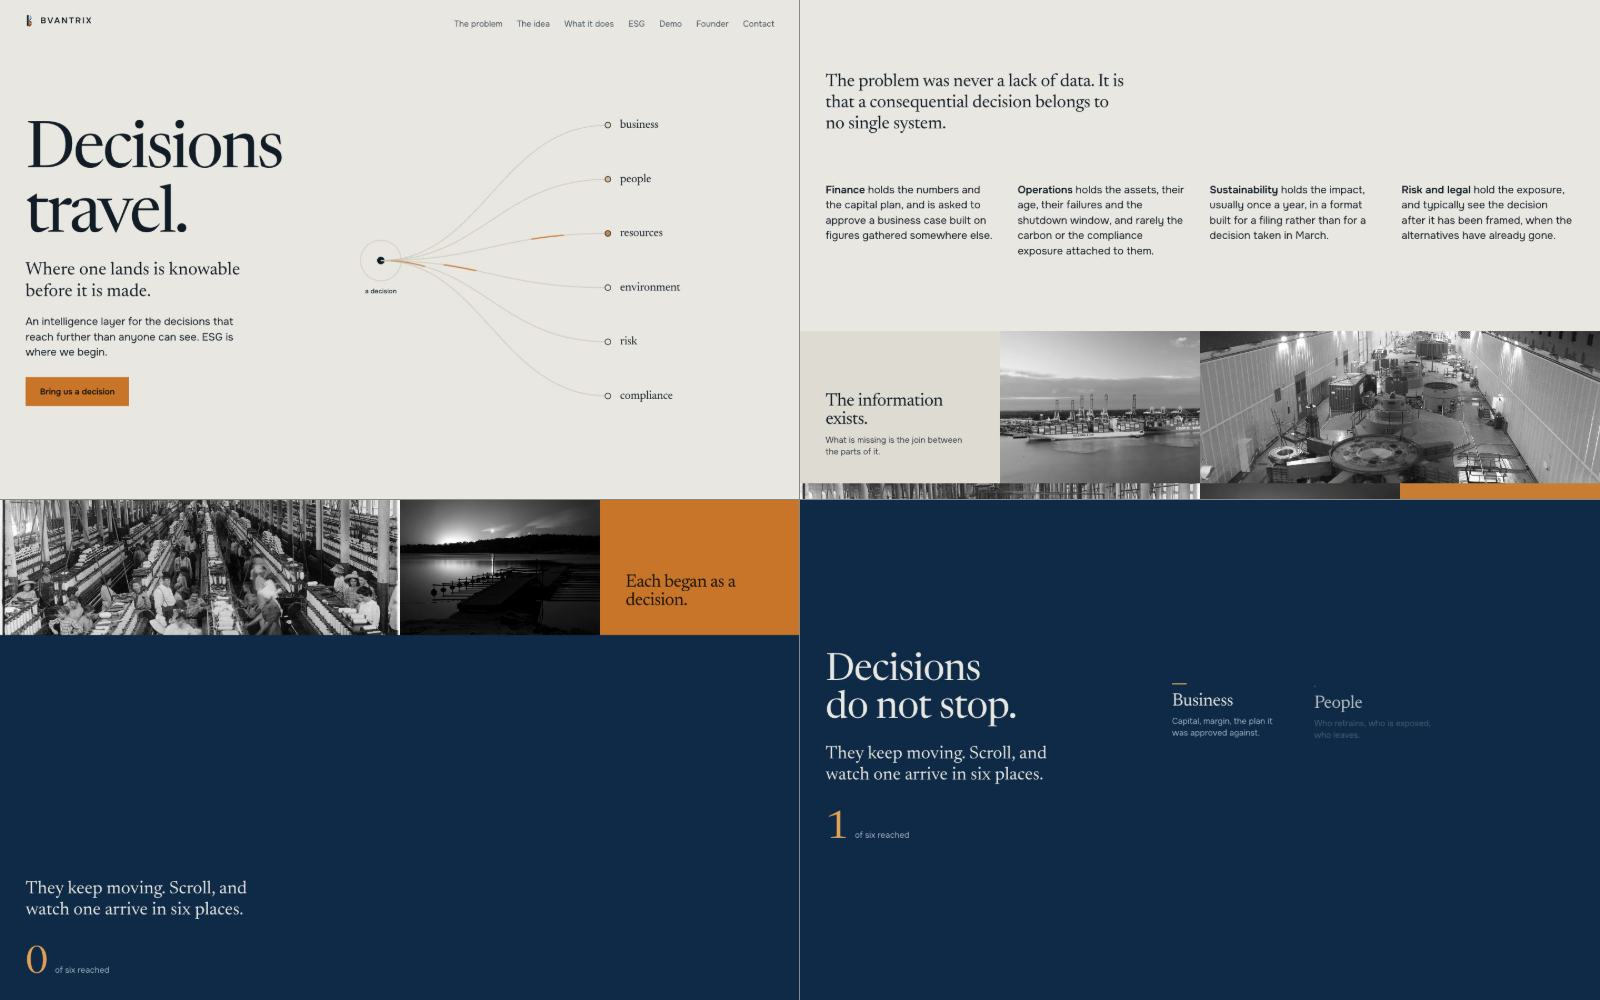
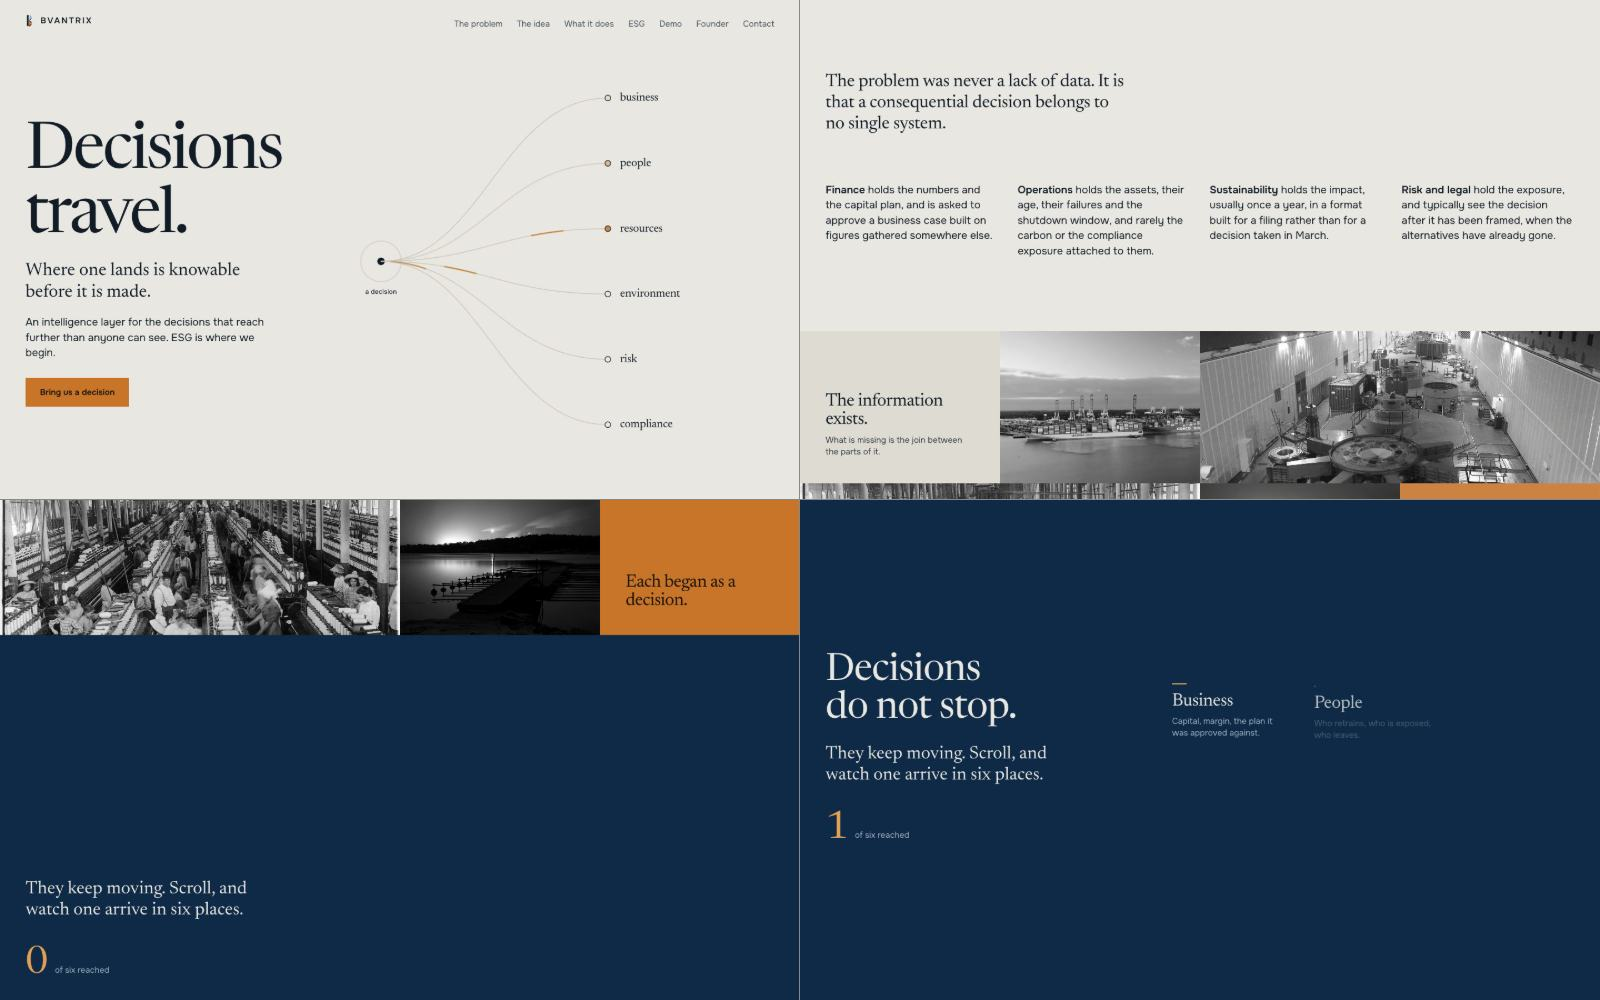
Close the hero's empty bands and make them equal
41% of the fold was empty page, and the band above the content sat 54px
deeper than the one below it. Three causes, three fixes.

The bands were measured from the viewport edge, but the nav occupies
the first 56px, so the gap a reader actually sees starts lower. The
top padding now carries that clearance on top of a band both sides
share, which makes the two gaps come out equal at any height.

The body text was capped at 26ch and stopped 130px short of the
headline's own width, leaving a ragged column of nothing beside it.
At 36ch the standfirst now runs to exactly the headline's measure.

The diagram's six lanes sat 116 units apart, which made it wide and
short, so it could never fill the column it was given. At 140 apart it
stands 623px instead of 529px.

Measured: optical bands 114/112 at 1440x900, 63/62 at 1366x680, 48/48
at 1280x640. Content fills 69-74% of the fold, up from 59%. Nothing
clipped, nothing below the fold, no horizontal scroll at 375px.

diff --git a/index.html b/index.html
@@ -25,7 +25,7 @@
 <link rel="preconnect" href="https://fonts.gstatic.com" crossorigin>
 <link rel="stylesheet" href="https://fonts.googleapis.com/css2?family=Newsreader:opsz,wght@6..72,300;6..72,400;6..72,500&family=Onest:wght@400;500;600&display=swap">
 <link rel="stylesheet" href="assets/scenes/stage.css">
-<link rel="stylesheet" href="css/style.css?v=10.3">
+<link rel="stylesheet" href="css/style.css?v=10.5">
 </head>
 <body>
 
@@ -94,67 +94,68 @@
   </div>
 
   <figure class="flowfig" aria-label="A decision reaching six places">
-    <svg viewBox="57 40 890 636" role="list">
+    <svg viewBox="57 24 890 750" role="list">
       <!-- the decision, where every line begins -->
       <g class="source">
-        <circle class="source-ring" cx="104" cy="348" r="42"/>
-        <circle class="source-dot" cx="104" cy="348" r="8"/>
-        <text class="source-label" x="104" y="418">a decision</text>
+        <circle class="source-ring" cx="104" cy="390" r="42"/>
+        <circle class="source-dot" cx="104" cy="390" r="8"/>
+        <text class="source-label" x="104" y="460">a decision</text>
       </g>
 
       <g class="lane" style="--i:0" tabindex="0" role="listitem"
          aria-label="business: capital, margin, the plan it was approved against">
-        <path class="lane-wire" d="M104 348 C 320 348, 360 58, 590 58"/>
-        <path class="lane-pulse" d="M104 348 C 320 348, 360 58, 590 58" pathLength="100"/>
-        <circle class="lane-dot" cx="590" cy="58" r="6"/>
-        <text class="lane-name" x="616" y="64">business</text>
-        <text class="lane-note" x="616" y="86">capital, margin, the plan it was approved against</text>
+        <path class="lane-wire" d="M104 390 C 320 390, 360 40, 590 40"/>
+        <path class="lane-pulse" d="M104 390 C 320 390, 360 40, 590 40" pathLength="100"/>
+        <circle class="lane-dot" cx="590" cy="40" r="6"/>
+        <text class="lane-name" x="616" y="46">business</text>
+        <text class="lane-note" x="616" y="68">capital, margin, the plan it was approved against</text>
       </g>
 
       <g class="lane" style="--i:1" tabindex="0" role="listitem"
          aria-label="people: who retrains, who is exposed, who leaves">
-        <path class="lane-wire" d="M104 348 C 320 348, 360 174, 590 174"/>
-        <path class="lane-pulse" d="M104 348 C 320 348, 360 174, 590 174" pathLength="100"/>
-        <circle class="lane-dot" cx="590" cy="174" r="6"/>
-        <text class="lane-name" x="616" y="180">people</text>
-        <text class="lane-note" x="616" y="202">who retrains, who is exposed, who leaves</text>
+        <path class="lane-wire" d="M104 390 C 320 390, 360 180, 590 180"/>
+        <path class="lane-pulse" d="M104 390 C 320 390, 360 180, 590 180" pathLength="100"/>
+        <circle class="lane-dot" cx="590" cy="180" r="6"/>
+        <text class="lane-name" x="616" y="186">people</text>
+        <text class="lane-note" x="616" y="208">who retrains, who is exposed, who leaves</text>
       </g>
 
       <g class="lane" style="--i:2" tabindex="0" role="listitem"
          aria-label="resources: what is consumed, recovered, or thrown">
-        <path class="lane-wire" d="M104 348 C 320 348, 360 290, 590 290"/>
-        <path class="lane-pulse" d="M104 348 C 320 348, 360 290, 590 290" pathLength="100"/>
-        <circle class="lane-dot" cx="590" cy="290" r="6"/>
-        <text class="lane-name" x="616" y="296">resources</text>
-        <text class="lane-note" x="616" y="318">what is consumed, recovered, or thrown</text>
+        <path class="lane-wire" d="M104 390 C 320 390, 360 320, 590 320"/>
+        <path class="lane-pulse" d="M104 390 C 320 390, 360 320, 590 320" pathLength="100"/>
+        <circle class="lane-dot" cx="590" cy="320" r="6"/>
+        <text class="lane-name" x="616" y="326">resources</text>
+        <text class="lane-note" x="616" y="348">what is consumed, recovered, or thrown</text>
       </g>
 
       <g class="lane" style="--i:3" tabindex="0" role="listitem"
          aria-label="environment: emissions in operation, and those already embodied">
-        <path class="lane-wire" d="M104 348 C 320 348, 360 406, 590 406"/>
-        <path class="lane-pulse" d="M104 348 C 320 348, 360 406, 590 406" pathLength="100"/>
-        <circle class="lane-dot" cx="590" cy="406" r="6"/>
-        <text class="lane-name" x="616" y="412">environment</text>
-        <text class="lane-note" x="616" y="434">emissions in operation, and those already embodied</text>
+        <path class="lane-wire" d="M104 390 C 320 390, 360 460, 590 460"/>
+        <path class="lane-pulse" d="M104 390 C 320 390, 360 460, 590 460" pathLength="100"/>
+        <circle class="lane-dot" cx="590" cy="460" r="6"/>
+        <text class="lane-name" x="616" y="466">environment</text>
+        <text class="lane-note" x="616" y="488">emissions in operation, and those already embodied</text>
       </g>
 
       <g class="lane" style="--i:4" tabindex="0" role="listitem"
          aria-label="risk: what becomes more likely, and what survivable">
-        <path class="lane-wire" d="M104 348 C 320 348, 360 522, 590 522"/>
-        <path class="lane-pulse" d="M104 348 C 320 348, 360 522, 590 522" pathLength="100"/>
-        <circle class="lane-dot" cx="590" cy="522" r="6"/>
-        <text class="lane-name" x="616" y="528">risk</text>
-        <text class="lane-note" x="616" y="550">what becomes more likely, and what survivable</text>
+        <path class="lane-wire" d="M104 390 C 320 390, 360 600, 590 600"/>
+        <path class="lane-pulse" d="M104 390 C 320 390, 360 600, 590 600" pathLength="100"/>
+        <circle class="lane-dot" cx="590" cy="600" r="6"/>
+        <text class="lane-name" x="616" y="606">risk</text>
+        <text class="lane-note" x="616" y="628">what becomes more likely, and what survivable</text>
       </g>
 
       <g class="lane" style="--i:5" tabindex="0" role="listitem"
          aria-label="compliance: the threshold today, and the one arriving">
-        <path class="lane-wire" d="M104 348 C 320 348, 360 638, 590 638"/>
-        <path class="lane-pulse" d="M104 348 C 320 348, 360 638, 590 638" pathLength="100"/>
-        <circle class="lane-dot" cx="590" cy="638" r="6"/>
-        <text class="lane-name" x="616" y="644">compliance</text>
-        <text class="lane-note" x="616" y="666">the threshold today, and the one arriving</text>
+        <path class="lane-wire" d="M104 390 C 320 390, 360 740, 590 740"/>
+        <path class="lane-pulse" d="M104 390 C 320 390, 360 740, 590 740" pathLength="100"/>
+        <circle class="lane-dot" cx="590" cy="740" r="6"/>
+        <text class="lane-name" x="616" y="746">compliance</text>
+        <text class="lane-note" x="616" y="768">the threshold today, and the one arriving</text>
       </g>
+
     </svg>
   </figure>
 </section>

diff --git a/css/style.css b/css/style.css
@@ -257,8 +257,13 @@ p { margin: 0; }
   position: relative;
   height: 100svh;
   min-height: 640px;
-  padding-top: clamp(96px, 11vh, 132px);
-  padding-bottom: clamp(30px, 5vh, 64px);
+  /* The band of empty page above the content and the one below it are meant to
+     read as the same depth. The datum at the top is the nav's baseline, not the
+     viewport edge -- the nav occupies the first 56px, so the top padding carries
+     that clearance on top of the shared band. */
+  --hero-band: clamp(30px, 6vh, 90px);
+  padding-top: calc(56px + var(--hero-band));
+  padding-bottom: var(--hero-band);
   display: grid;
   grid-template-columns: minmax(0, 0.84fr) minmax(0, 1.16fr);
   column-gap: var(--gutter);
@@ -268,11 +273,12 @@ p { margin: 0; }
 .masthead-words {
   align-self: center;
   display: grid; align-content: center;
-  max-width: 26ch;
+  max-width: 36ch;                 /* was 26ch, which left the lines ragged
+                                      130px short of the headline's own width */
 }
 .masthead-words .display { max-width: 9ch; }
 .masthead-words .copy {
-  max-width: 30ch;
+  max-width: 34ch;
   font-size: var(--t-body); line-height: 1.45; color: var(--ink);
 }
 .masthead-words .act { justify-self: start; margin-top: 30px; }
@@ -795,7 +801,7 @@ html:not(.js) .tel-code select { font: inherit; border: 0; background: transpare
   align-self: center;              /* its own height, not a tall empty box */
   display: grid;
 }
-.flowfig svg { width: 100%; height: auto; max-height: 76svh; overflow: visible; }
+.flowfig svg { width: 100%; height: auto; max-height: min(70svh, 660px); overflow: visible; }
 
 /* the decision */
 .source-ring { fill: none; stroke: var(--rule); stroke-width: 1.5; }
